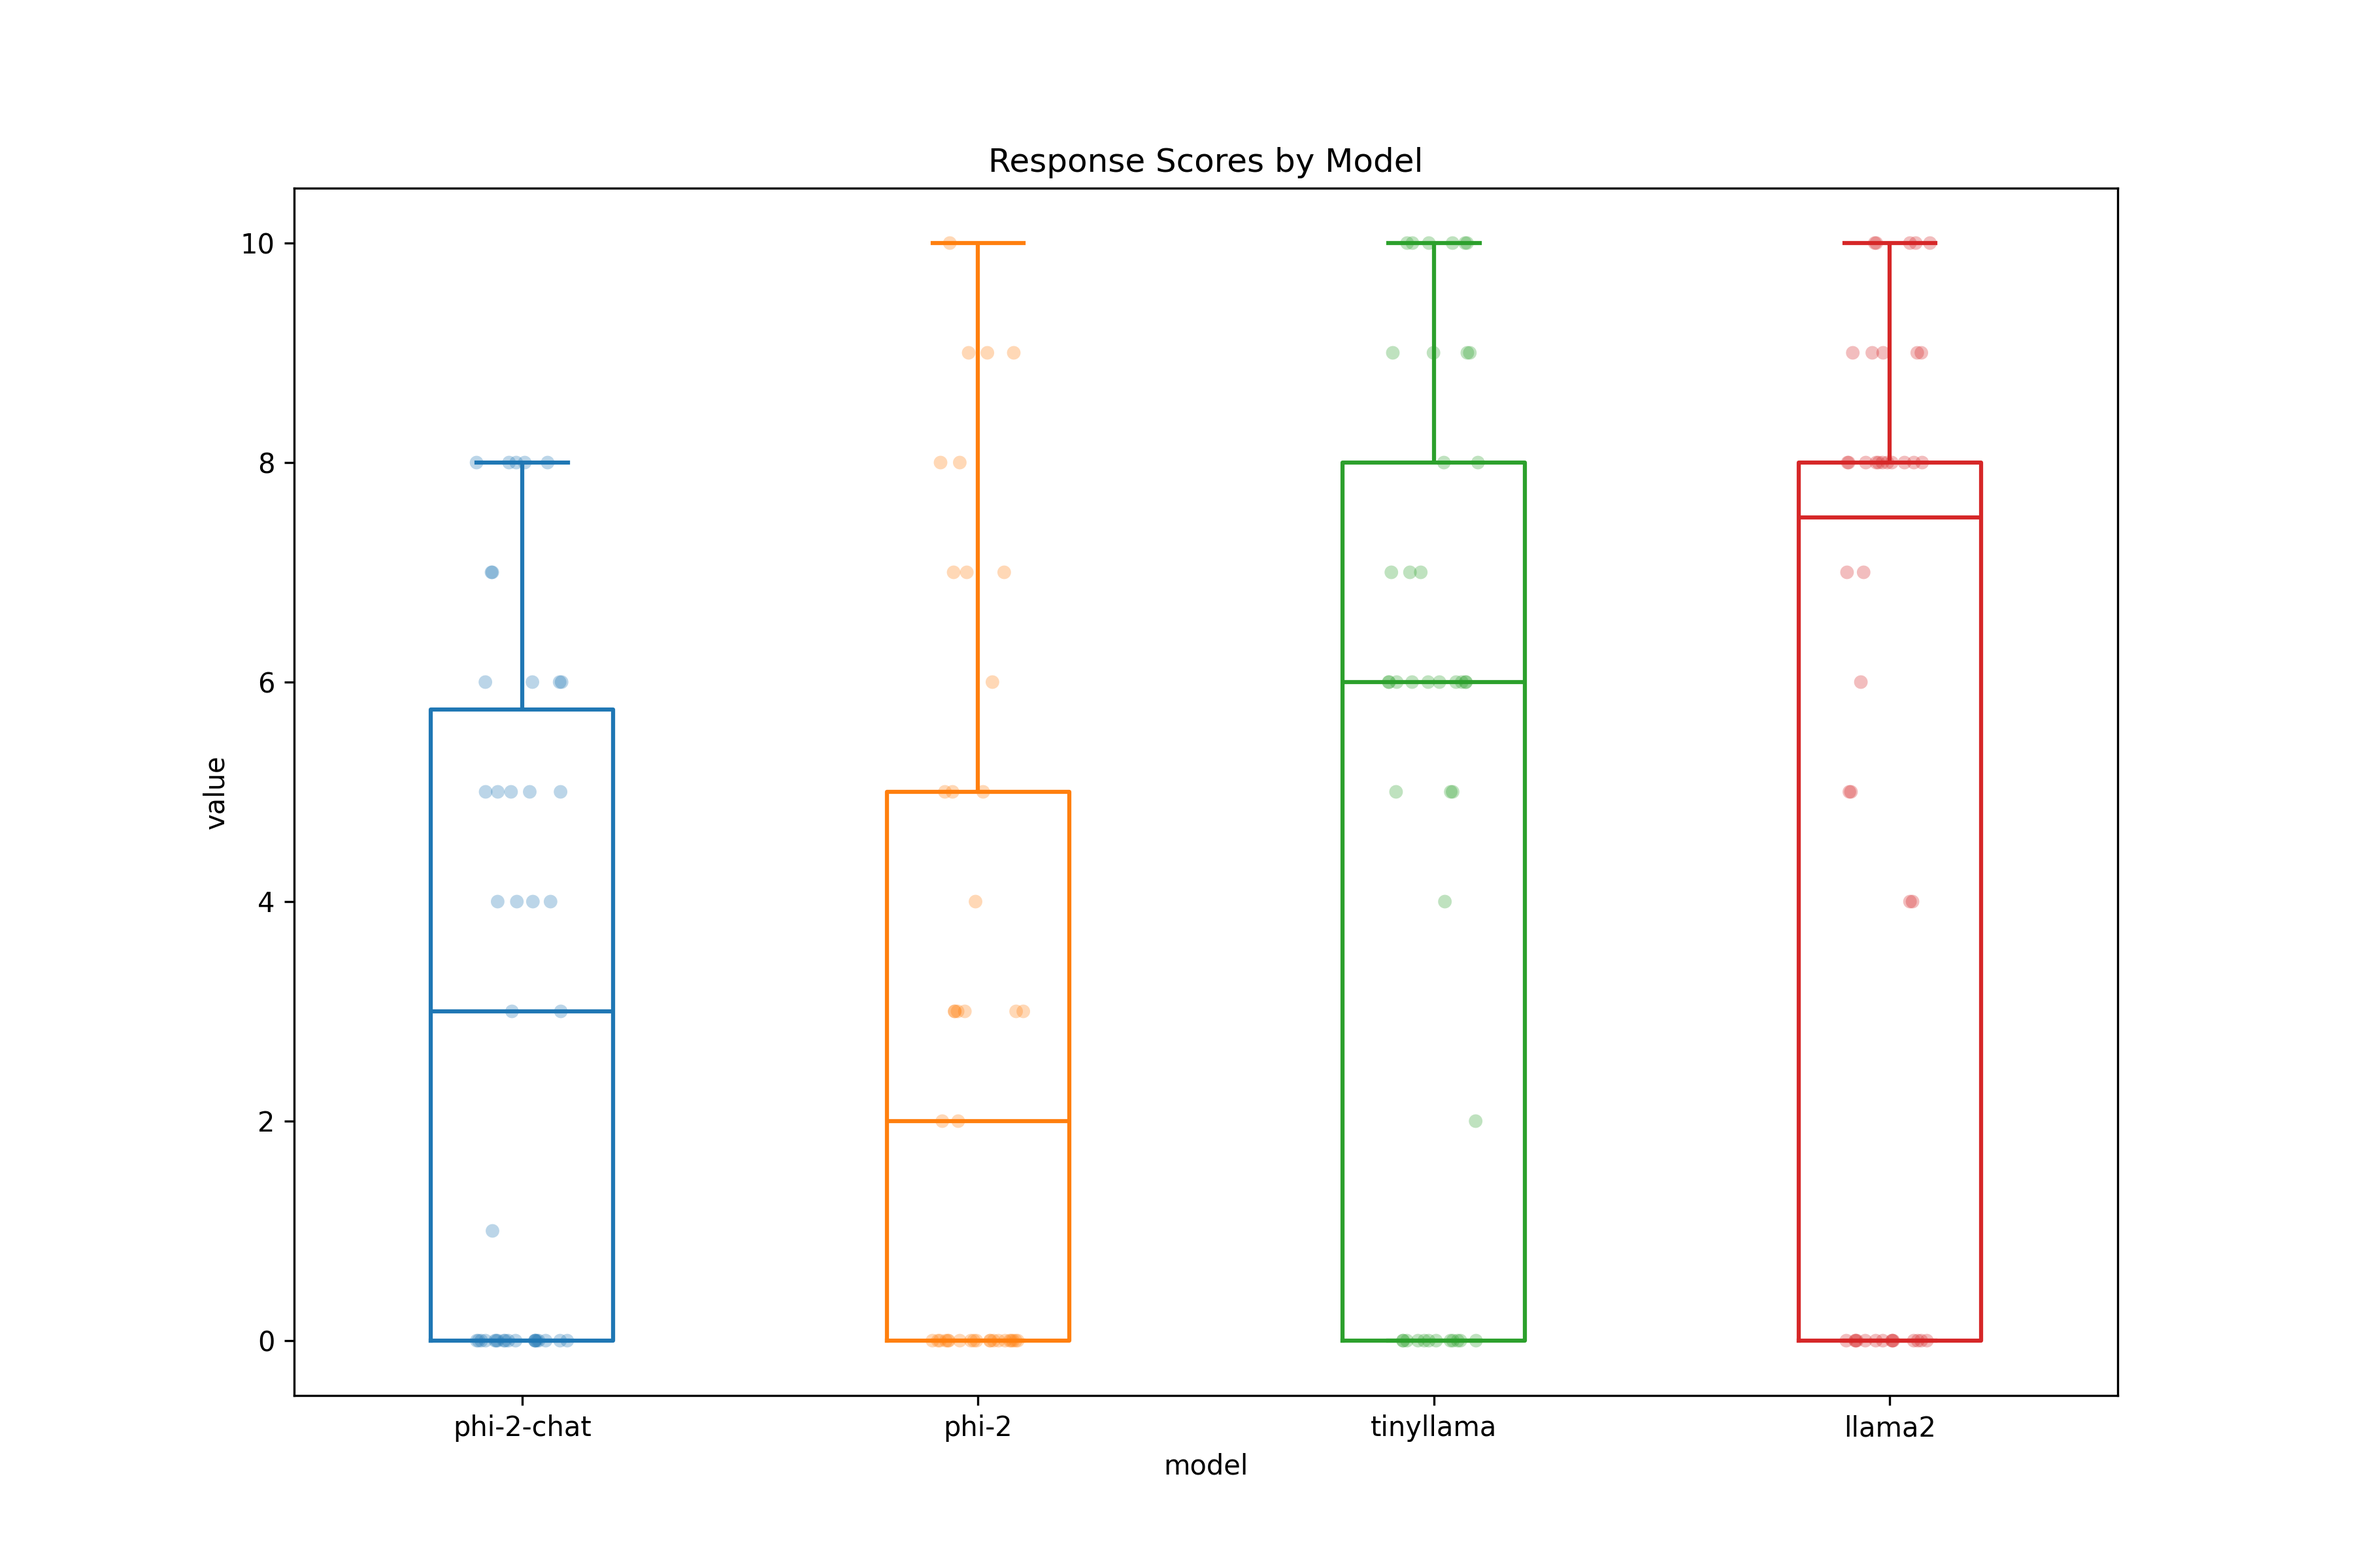
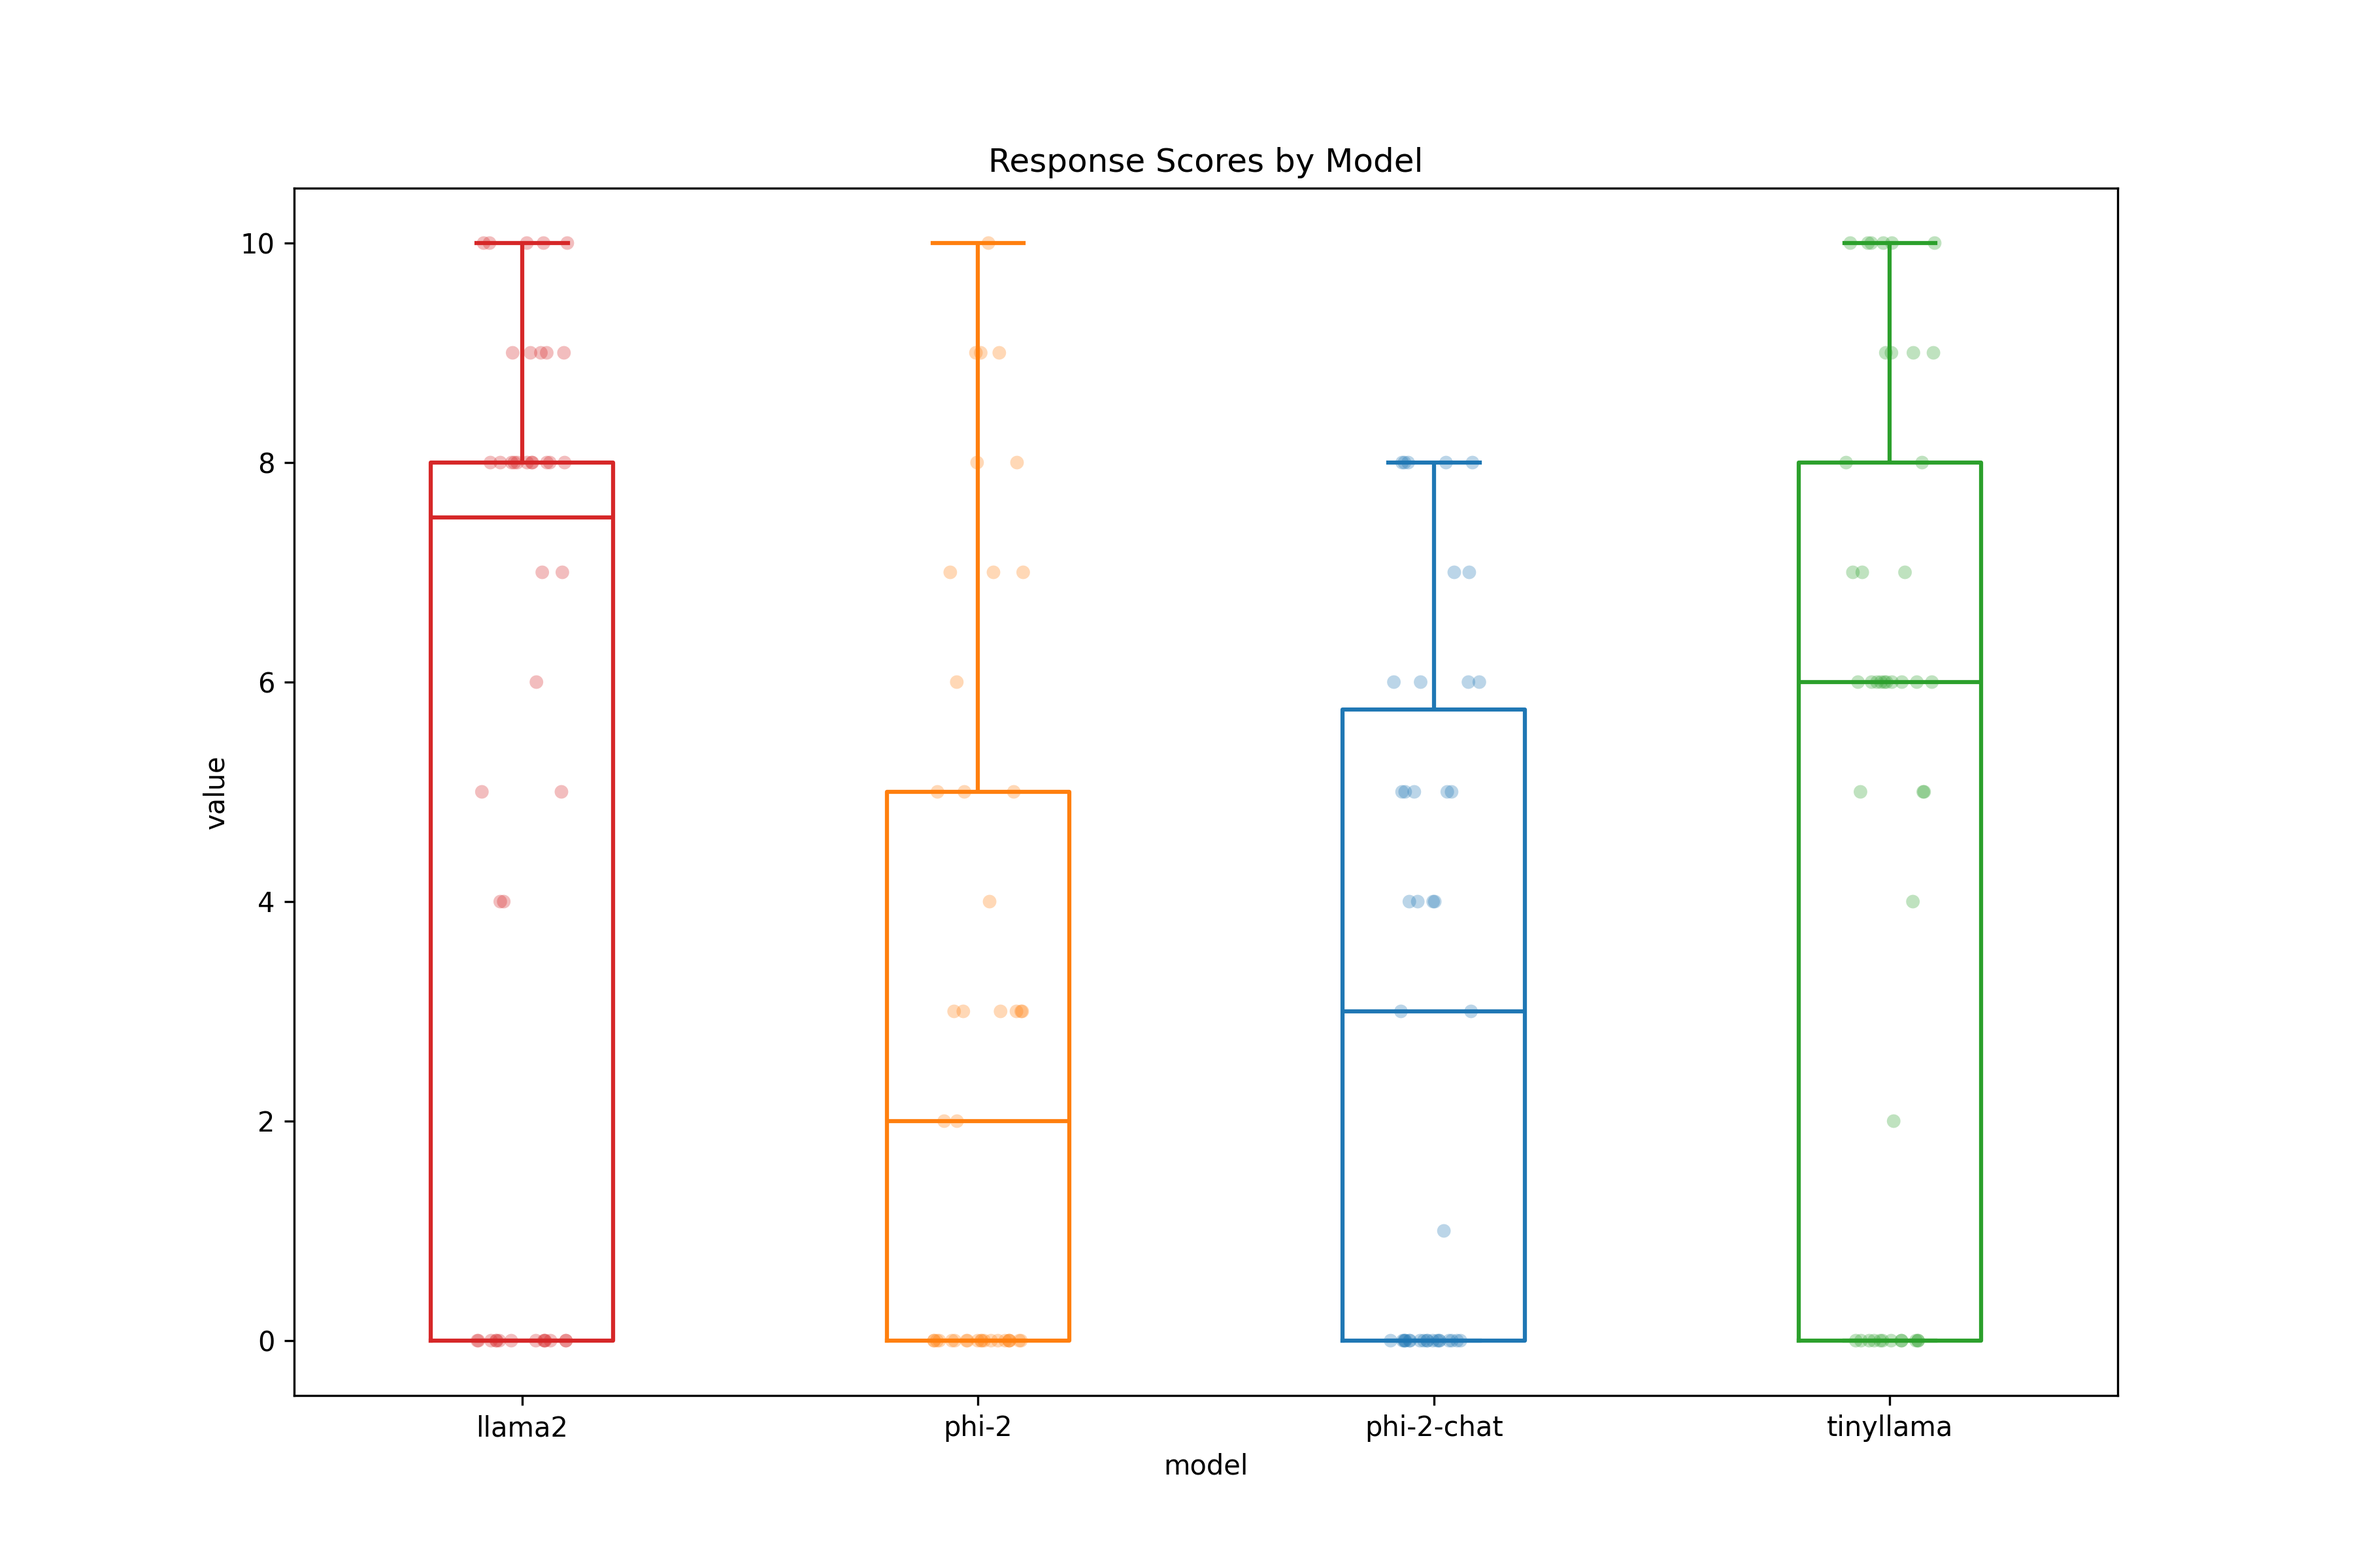
Updated plots slightly.

diff --git a/scripts/02_stats.py b/scripts/02_stats.py
@@ -2,9 +2,17 @@
 
 import matplotlib.pyplot as plt
 import pandas as pd
+import seaborn as sns
 
 # open the report
 report = pd.read_csv("reports/report_2024-01-24_094330_cleaned.csv")
+
+fig_height = 8
+fig_width = 12
+fig_aspect = fig_width / fig_height
+plt.rcParams["figure.figsize"] = (fig_width, fig_height)  # type: ignore
+# set dpi
+plt.rcParams["figure.dpi"] = 300  # type: ignore
 
 # cols:
 # model,dataset,model_config,command_kw,documents,full_context,question,reference_answer,response,stdout,stderr
@@ -25,7 +33,6 @@ timings = report["stderr"].str.extract(  # type: ignore
     r"[.\n]*.*eval[^=]+=[^\d]+([\d\.]+)[^\d]+(\d+)[^\d]+([\d\.]+)[^\d]+([\d\.]+).*"
     r"[.\n]*.*total[^=]+=[^\d]+([\d\.]+).*"
 )
-print(timings)  # noqa: T201
 
 # rename the columns
 timings.columns = [
@@ -79,68 +86,97 @@ std_load_time = timings.groupby("model")["load_time"].std()
 # make a plot with error bars of the means and std per model
 # subplot per value
 # highlight the best model per value
-fig, axs = plt.subplots(1, 3, figsize=(15, 5))
+fig, axs = plt.subplots(1, 2, figsize=(fig_width, fig_height))
 axs[0].errorbar(  # type: ignore
     mean_prompt_eval_tokens_per_second.index,
     mean_prompt_eval_tokens_per_second,
     yerr=std_prompt_eval_tokens_per_second,
     fmt="o",
 )
-axs[0].set_title("prompt_eval_tokens_per_second")  # type: ignore
+axs[0].set_title("Prompt evaluation")  # type: ignore
 axs[0].set_ylabel("tokens per second")  # type: ignore
 axs[0].set_xlabel("model")  # type: ignore
-axs[0].tick_params(axis="x", rotation=90)  # type: ignore
+axs[0].tick_params(axis="x", rotation=0)  # type: ignore
 axs[1].errorbar(  # type: ignore
     mean_eval_tokens_per_second.index,
     mean_eval_tokens_per_second,
     yerr=std_eval_tokens_per_second,
     fmt="o",
 )
-axs[1].set_title("eval_tokens_per_second")  # type: ignore
+axs[1].set_title("Output Generation")  # type: ignore
 axs[1].set_ylabel("tokens per second")  # type: ignore
 axs[1].set_xlabel("model")  # type: ignore
-axs[1].tick_params(axis="x", rotation=90)  # type: ignore
-axs[2].errorbar(  # type: ignore
-    mean_load_time.index, mean_load_time, yerr=std_load_time, fmt="o",
-)
-axs[2].set_title("load_time")  # type: ignore
-axs[2].set_ylabel("time (ms)")  # type: ignore
-axs[2].set_xlabel("model")  # type: ignore
-axs[2].tick_params(axis="x", rotation=90)  # type: ignore
+axs[1].tick_params(axis="x", rotation=0)  # type: ignore
+# axs[2].errorbar(  # type: ignore
+#     mean_load_time.index, mean_load_time, yerr=std_load_time, fmt="o",
+# )
+# axs[2].set_title("load_time")  # type: ignore
+# axs[2].set_ylabel("time (ms)")  # type: ignore
+# axs[2].set_xlabel("model")  # type: ignore
+# axs[2].tick_params(axis="x", rotation=90)  # type: ignore
 
 # highlight the best model per value
-best_prompt_eval_tokens_per_second = mean_prompt_eval_tokens_per_second.idxmax()
-best_eval_tokens_per_second = mean_eval_tokens_per_second.idxmax()
-best_load_time = mean_load_time.idxmin()
-axs[0].scatter(  # type: ignore
-    best_prompt_eval_tokens_per_second,
-    mean_prompt_eval_tokens_per_second[best_prompt_eval_tokens_per_second],
-    marker="x",
-    s=100,
-    c="r"
-)
-axs[1].scatter(  # type: ignore
-    best_eval_tokens_per_second,
-    mean_eval_tokens_per_second[best_eval_tokens_per_second],
-    marker="x",
-    s=100,
-    c="r"
-)
-axs[2].scatter(  # type: ignore
-    best_load_time,
-    mean_load_time[best_load_time],
-    marker="x",
-    s=100,
-    c="r"
-)
+# best_prompt_eval_tokens_per_second = mean_prompt_eval_tokens_per_second.idxmax()
+# best_eval_tokens_per_second = mean_eval_tokens_per_second.idxmax()
+# best_load_time = mean_load_time.idxmin()
+# axs[0].scatter(  # type: ignore
+#     best_prompt_eval_tokens_per_second,
+#     mean_prompt_eval_tokens_per_second[best_prompt_eval_tokens_per_second],
+#     marker="x",
+#     s=100,
+#     c="r"
+# )
+# axs[1].scatter(  # type: ignore
+#     best_eval_tokens_per_second,
+#     mean_eval_tokens_per_second[best_eval_tokens_per_second],
+#     marker="x",
+#     s=100,
+#     c="r"
+# )
+# axs[2].scatter(  # type: ignore
+#     best_load_time,
+#     mean_load_time[best_load_time],
+#     marker="x",
+#     s=100,
+#     c="r"
+# )
 fig.tight_layout()
 fig.savefig("reports/timings.png")
 plt.close(fig)
 
+# same again but with SNS
 
+# just join the _mean and _std vars into a single df
 
+timings2 = timings[
+    timings["prompt_eval_time"] != 0
+][["model", "prompt_eval_tokens_per_second", "eval_tokens_per_second"]].melt(
+    id_vars="model", var_name="metric", value_name="value"
+)
+# update metric names
+timings2["metric"] = timings2["metric"].str.replace("_tokens_per_second", "")
+# replace _ with space
+timings2["metric"] = timings2["metric"].str.replace("prompt_eval", "Prompt Evaluation")
+timings2["metric"] = timings2["metric"].str.replace("eval", "Output Generation")
+model_names = list(set(timings2["model"]))
+model_names.sort()
+g = sns.catplot(
+    data=timings2,
+    x="model",
+    y="value",
+    hue="model",
+    kind="point",
+    errorbar="sd",
+    col="metric",
+    col_wrap=2,
+    linestyle="none",
+    order=model_names,
+)
 
+g.set_titles("{col_name}")
+g.set_xlabels("model")
+g.set_ylabels("tokens per second")
 
-
+plt.savefig("reports/timings2.png")
 
 

diff --git a/scripts/04_subj_rank_results.py b/scripts/04_subj_rank_results.py
@@ -95,11 +95,13 @@ if __name__ == "__main__":
 
     fig, ax = plt.subplots()
     # plot the scores by model
+    model_names.sort()
     sns.boxplot(
         data=rankings_long.query("type == 'score'"),
         x="model",
         y="value",
         ax=ax,
+        order=model_names,
         fill=False,
         hue="model",
         gap=0.5,
@@ -110,6 +112,7 @@ if __name__ == "__main__":
         x="model",
         y="value",
         legend=False,
+        order=model_names,
         ax=ax,
         hue="model",
         alpha=0.3,
